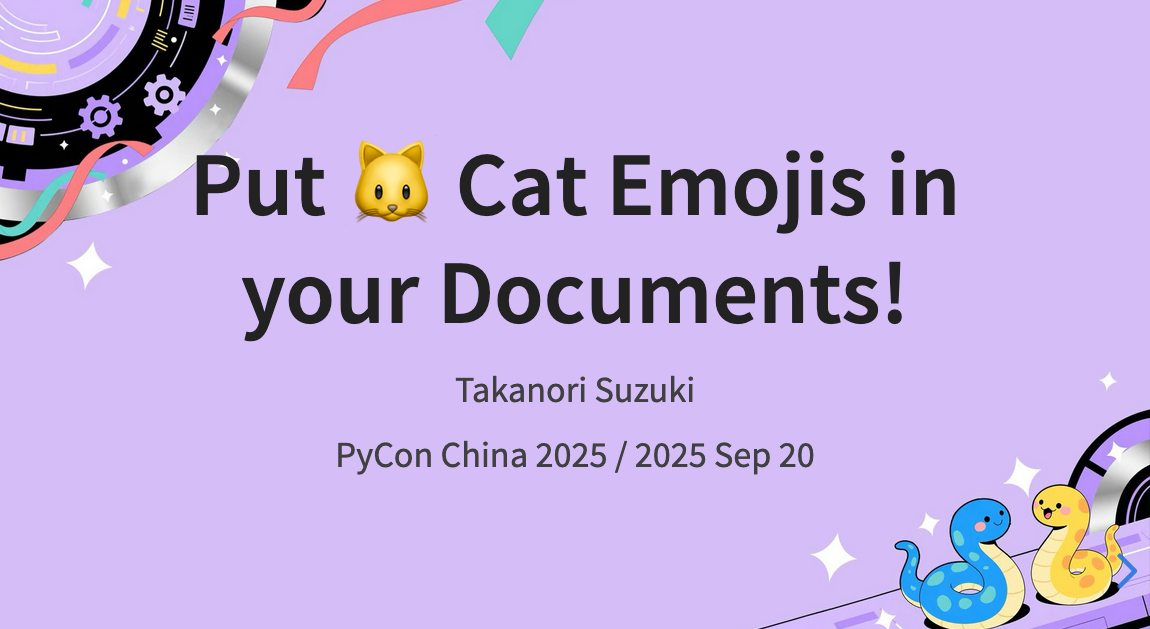
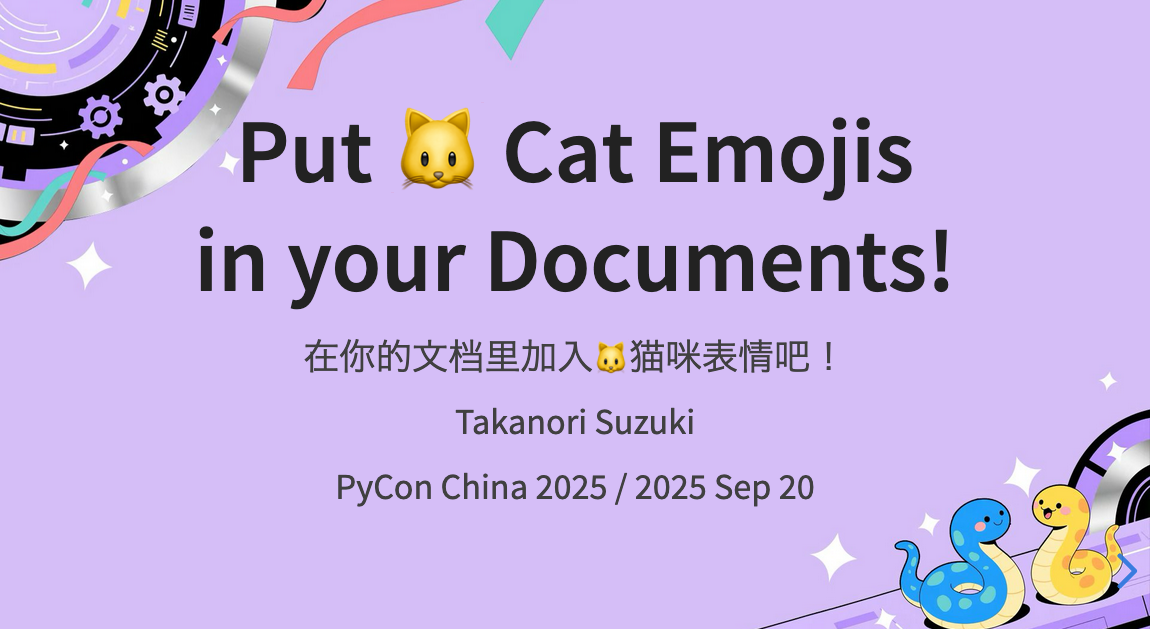
refs #148 update title

Changed region(s): [[0.1522, 0.151, 0.8522, 0.5437], [0.2435, 0.5437, 0.7304, 0.8156]]

diff --git a/slides/20250920pyconcn-lt/index.md b/slides/20250920pyconcn-lt/index.md
@@ -5,7 +5,7 @@
 .. |cover| image:: images/20250920pyconcn-lt.png
 ```
 
-# Put 🐱 Cat Emojis in your Documents!
+# Put 🐱 Cat Emojis<br />in your Documents!
 ```{revealjs-section}
 :data-background-image: images/pyconchina-background1.png
 ```
